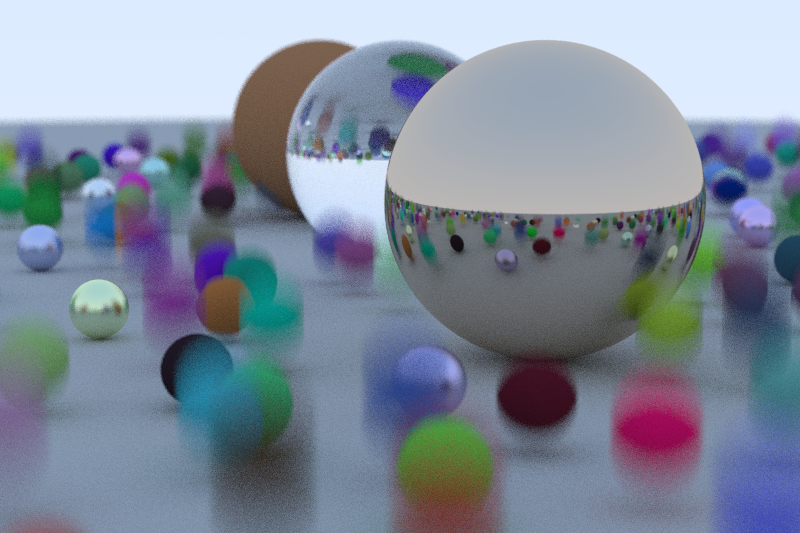
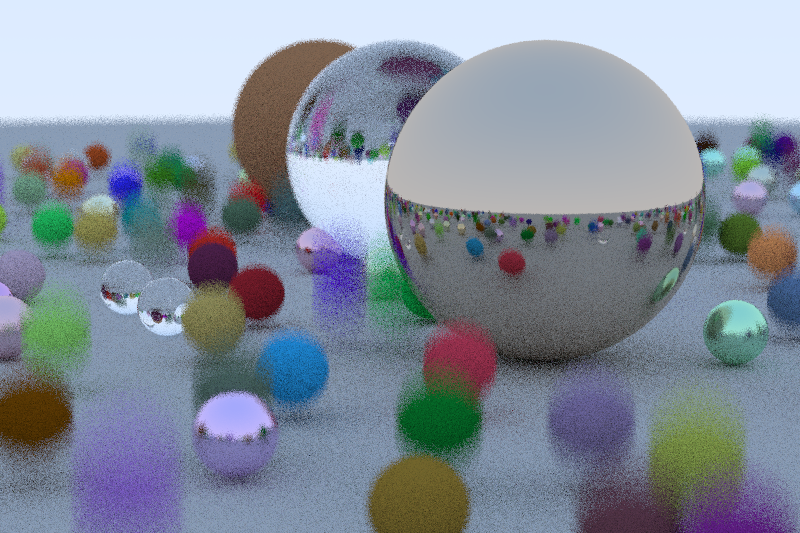
intersect interface + initial qbvh sketch

diff --git a/src/main.rs b/src/main.rs
@@ -253,7 +253,7 @@ fn hit(world: &World, start: usize, len: usize, ray: Ray, t_min: f32, t_max: f32
 }    
 
 trait Hitable {
-    fn hit(&self, ray: Ray, t_min: f32, t_max: f32, out_hit: &mut HitRecord) -> bool;
+    fn hit(&self, ray: Ray, t_min: f32, t_max: f32, world: &World, out_hit: &mut HitRecord) -> bool;
 }
 
 fn hit_spheres(world: &World, start: usize, len: usize, ray: Ray, t_min: f32, t_max: f32, out_hit: &mut HitRecord) -> bool {
@@ -276,36 +276,37 @@ fn hit_spheres(world: &World, start: usize, len: usize, ray: Ray, t_min: f32, t_
     found_hit
 }
 
-fn hit_world(r: Ray, t_min: f32, t_max: f32, current_node: &BVHNode, bvh: &BVH, world: &World, out_hit: &mut HitRecord) -> bool {        
-    if !current_node.bounds.hit(r, t_min, t_max) {
-        return false;
-    }
+// fn hit_world(r: Ray, t_min: f32, t_max: f32, current_node: &BVHNode, bvh: &BVH, world: &World, out_hit: &mut HitRecord) -> bool {        
+//     if !current_node.bounds.hit(r, t_min, t_max) {
+//         return false;
+//     }
 
-    if current_node.geometry_idx != INVALID_GEO_IDX {
-        let start = current_node.geometry_idx as usize;
-        let len = current_node.geometry_len as usize;
-        return hit_spheres(world, start, len, r, t_min, t_max, out_hit);
-    }
+//     if current_node.geometry_idx != INVALID_GEO_IDX {
+//         let start = current_node.geometry_idx as usize;
+//         let len = current_node.geometry_len as usize;
+//         return hit_spheres(world, start, len, r, t_min, t_max, out_hit);
+//     }
 
-    let l_node = &bvh.tree[current_node.left_child as usize];
-    let r_node = &bvh.tree[current_node.right_child as usize];
+//     let l_node = &bvh.tree[current_node.left_child as usize];
+//     let r_node = &bvh.tree[current_node.right_child as usize];
 
-    let l_hit = hit_world(r, t_min, t_max, l_node, bvh, world, out_hit);
-    let closest_t = if l_hit { out_hit.t } else { t_max }; 
-    let r_hit = hit_world(r, t_min, closest_t, r_node, bvh, world, out_hit);
+//     let l_hit = hit_world(r, t_min, t_max, l_node, bvh, world, out_hit);
+//     let closest_t = if l_hit { out_hit.t } else { t_max }; 
+//     let r_hit = hit_world(r, t_min, closest_t, r_node, bvh, world, out_hit);
 
-    l_hit || r_hit
-}
+//     l_hit || r_hit
+// }
 
-fn sample_color(r: Ray, bvh: &BVH, world: &World, materials: &[Material], bounces: i32) -> Vec3 {
+fn sample_color(r: Ray, hit_tree: & dyn Hitable, world: &World, materials: &[Material], bounces: i32) -> Vec3 {
     let mut hit = HitRecord::new();
 
     let mut color = vec3![1.0, 1.0, 1.0];
     let mut current_ray = r;
 
     for _bounce in 0..bounces {
-        if hit_world(current_ray, 0.001, f32::MAX, &bvh.root, bvh, &world, &mut hit) {
+        // if hit_world(current_ray, 0.001, f32::MAX, &bvh.root, bvh, &world, &mut hit) {
         // if hit_spheres(world, 0, world.sphere_x.len(), current_ray, 0.001, f32::MAX, &mut hit) {
+        if hit_tree.hit(current_ray, 0.001, f32::MAX, world, &mut hit) {
             hit.normal = normalized(hit.normal); // The book makes a point about unit length normals but then doesnt enforce it.
             let mat_id = world.material_ids[hit.obj_id] as usize;
             let (did_bounce, attenuation, scattered) = materials[mat_id].scatter(&current_ray, &hit);
@@ -634,6 +635,48 @@ impl AABB {
         t_max > t_min
     }
 
+    // unsafe fn hit_wide(r: Ray, t_min: f32, t_max: f32) -> bool {
+    //     let min_x = _mm_set_ps1(0.0);
+    //     let min_y = _mm_set_ps1(0.0);
+    //     let min_z = _mm_set_ps1(0.0);
+        
+    //     let max_x = _mm_set_ps1(0.0);
+    //     let max_y = _mm_set_ps1(0.0);
+    //     let max_z = _mm_set_ps1(0.0);
+    
+    //     let ro_x = _mm_set_ps1(r.origin.x);
+    //     let ro_y = _mm_set_ps1(r.origin.y);
+    //     let ro_z = _mm_set_ps1(r.origin.z);
+    
+    //     let inv_rd_x = _mm_set_ps1(1.0 / r.direction.x);
+    //     let inv_rd_y = _mm_set_ps1(1.0 / r.direction.y);
+    //     let inv_rd_z = _mm_set_ps1(1.0 / r.direction.z);
+    
+    //     let zero_4 = _mm_set_ps1(0.0);
+    //     let t_min_4 = _mm_set_ps1(t_min);
+    //     let t_max_4 = _mm_set_ps1(t_max);
+        
+    //     let mut t0_x = _mm_mul_ps(_mm_sub_ps(min_x, ro_x), inv_rd_x);
+    //     let mut t1_x = _mm_mul_ps(_mm_sub_ps(max_x, ro_x), inv_rd_x);
+    
+    //     let inv_rd_x_lt0 = _mm_cmplt_ps(inv_rd_x, zero_4);
+    //     t0_x = _mm_blendv_ps(t0_x, t1_x, inv_rd_x_lt0);
+    //     t1_x = _mm_blendv_ps(t1_x, t0_x, inv_rd_x_lt0);
+    
+    //     t0_x = _mm_max_ps(t_min_4, t0_x);
+    //     t1_x = _mm_min_ps(t_max_4, t1_x);
+    
+    //     let any_x_hit = _mm_cmple_ps(t1_x, t0_x);
+    //     if _mm_movemask_ps(any_x_hit) != 0 {
+    //         // TODO(): lane select
+    //         return true;
+    //     }
+    
+    //     // TODO(): repeat for y and z
+    
+    //     return false;
+    // }
+
     // fn _hit_simd(&self, r: Ray, t_min: f32, t_max: f32) -> bool {
     // unsafe {
     //         let inv_rd = _mm_div_ps(_mm_set_ps1(1.0), _mm_set_ps(r.direction.x, r.direction.y, r.direction.z, 1.0));
@@ -680,6 +723,35 @@ impl BVHNode {
 struct BVH {
     root: BVHNode,
     tree: Vec<BVHNode>
+}
+
+impl BVH {
+    fn hit_world(r: Ray, t_min: f32, t_max: f32, current_node: &BVHNode, bvh: &BVH, world: &World, out_hit: &mut HitRecord) -> bool {        
+        if !current_node.bounds.hit(r, t_min, t_max) {
+            return false;
+        }
+
+        if current_node.geometry_idx != INVALID_GEO_IDX {
+            let start = current_node.geometry_idx as usize;
+            let len = current_node.geometry_len as usize;
+            return hit_spheres(world, start, len, r, t_min, t_max, out_hit);
+        }
+
+        let l_node = &bvh.tree[current_node.left_child as usize];
+        let r_node = &bvh.tree[current_node.right_child as usize];
+
+        let l_hit = BVH::hit_world(r, t_min, t_max, l_node, bvh, world, out_hit);
+        let closest_t = if l_hit { out_hit.t } else { t_max }; 
+        let r_hit = BVH::hit_world(r, t_min, closest_t, r_node, bvh, world, out_hit);
+
+        l_hit || r_hit
+    }
+}
+
+impl Hitable for BVH {
+    fn hit(&self, ray: Ray, t_min: f32, t_max: f32, world: &World, out_hit: &mut HitRecord) -> bool {
+        return BVH::hit_world(ray, t_min, t_max, &self.root, &self, world, out_hit);
+    }
 }
 
 #[derive(Copy,Clone)]
@@ -767,6 +839,187 @@ fn construct_bvh(objects: &mut[Sphere], time0: f32, time1: f32, bvh: &mut Vec<BV
     cur_node.bounds = AABB::merge(&left_bb, &right_bb);
 }
 
+enum BVHNodeType {
+    Joint, /// This node's children are BVHNodes.
+    Leaf,  /// This node's children are intersectibles.
+    EnumCount
+}
+
+/// A QBVHNode has up to four children that it stores the bounds of.
+/// This allows fast intersection testing by testing all 4 at once through SIMD.
+struct QBVHNode {
+    bb_min_x: [f32; 4],
+    bb_min_y: [f32; 4],
+    bb_min_z: [f32; 4],
+    bb_max_x: [f32; 4],
+    bb_max_y: [f32; 4],
+    bb_max_z: [f32; 4],
+    children: [i32; 4],
+    child_type: [BVHNodeType; 4],
+    num_children: u8
+}
+
+impl QBVHNode {
+    fn new() -> QBVHNode {
+        QBVHNode {
+            bb_min_x: [0.0, 0.0, 0.0, 0.0],
+            bb_min_y: [0.0, 0.0, 0.0, 0.0],
+            bb_min_z: [0.0, 0.0, 0.0, 0.0],
+            bb_max_x: [0.0, 0.0, 0.0, 0.0],
+            bb_max_y: [0.0, 0.0, 0.0, 0.0],
+            bb_max_z: [0.0, 0.0, 0.0, 0.0],
+            children: [-1, -1, -1, -1],
+            child_type: [BVHNodeType:: Joint, BVHNodeType:: Joint, BVHNodeType:: Joint, BVHNodeType:: Joint],
+            num_children: 0
+            // ^ We want to indicate what the children are, so we can avoid inserting
+            // BVHNodes for single object children since that just wastes space.
+        }
+    }
+}
+
+struct QBVH {
+    root: QBVHNode,
+    tree: Vec<QBVHNode>
+}
+
+/// Retrieves the bounds for the child of node at child_idx.
+fn get_qbvh_aabb(node: &QBVHNode, child_idx: u8) -> AABB {
+    let i = child_idx as usize;
+    AABB {
+        min: vec3![node.bb_min_x[i], node.bb_min_y[i], node.bb_min_z[i]],
+        max: vec3![node.bb_max_x[i], node.bb_max_y[i], node.bb_max_z[i]],
+    }
+}
+
+/// Sets the merged bounds on the node for its child at child_idx.
+fn set_qbvh_aabb(node: &mut QBVHNode, child_idx: u8, bb: &AABB) {
+    node.bb_min_x[child_idx as usize] = bb.min.x;
+    node.bb_min_y[child_idx as usize] = bb.min.y;
+    node.bb_min_z[child_idx as usize] = bb.min.z;
+    node.bb_max_x[child_idx as usize] = bb.max.x;
+    node.bb_max_y[child_idx as usize] = bb.max.y;
+    node.bb_max_z[child_idx as usize] = bb.max.z;   
+}
+
+/// Calculates the merged bounds of child of this node and assigns it 
+/// to the appropriate slot in this node.
+fn merge_bounds_from_children(node: &mut QBVHNode, qbvh: &Vec<QBVHNode>) {
+    for child_i in 0..node.num_children {
+
+        let child_node = &qbvh[child_i as usize];
+        assert_ne!(child_node.num_children, 0);
+
+        let mut bounds = get_qbvh_aabb(&child_node, 0);
+        for node_i in 1..child_node.num_children {
+            bounds = AABB::merge(&bounds, &get_qbvh_aabb(&child_node, node_i));
+        }
+
+        set_qbvh_aabb(node, child_i, &bounds);
+    }
+}
+
+
+fn construct_qbvh(objects: &mut[Sphere], t0: f32, t1: f32, bvh: &mut Vec<QBVHNode>, cur_node: &mut QBVHNode, start: usize, end: usize) {
+
+    let split_axis = random_axis();
+    let range = end - start;
+
+    let sub_objects = &mut objects[start..end];
+
+    if range <= 4 {
+
+        for i in 0..range {          
+            let aabb = objects[i].calc_aabb(t0, t1);
+            cur_node.bb_min_x[i] = aabb.min.x;
+            cur_node.bb_min_y[i] = aabb.min.y;
+            cur_node.bb_min_z[i] = aabb.min.z;
+            cur_node.bb_max_x[i] = aabb.max.x;
+            cur_node.bb_max_y[i] = aabb.max.y;
+            cur_node.bb_max_z[i] = aabb.max.z;
+            cur_node.child_type[i] = BVHNodeType::Leaf;
+            cur_node.children[i] = (start + i) as i32;
+            cur_node.num_children += 1;
+        }
+
+        // pad if we dont have 4 nodes to fill with
+        // TODO(): we should probably assert on this in the hit logic. The bvh
+        // for this child will be all 0, so we should never hit it and get an idx of -1.
+        for i in range..4 {
+            cur_node.children[i] = -1;
+            cur_node.child_type[i] = BVHNodeType::Leaf;
+        }
+    }
+    // TODO(): Do we insert a case here we handle setting up leaf nodes?
+    // Or we could replace the above case with one that checks the next divide.
+    else if range < 16 {
+        // next nodes will end up being leaves, should pad to four
+        // or should we? is full 4 prefereable? Probably, better simd occupancy
+
+        let mut start_idx = start as i32;
+        let mut nodes_to_insert = range as i32;
+        while nodes_to_insert > 0 {
+            let num_children = if nodes_to_insert >= 4 { 4 } else { nodes_to_insert };
+            let mut node = QBVHNode::new();
+            construct_qbvh(objects, t0, t1, bvh, &mut node, start_idx as usize, (start_idx + num_children) as usize);
+
+            cur_node.num_children += 1;
+
+            start_idx += num_children;
+            nodes_to_insert -= num_children;
+        }
+
+        merge_bounds_from_children(cur_node, bvh);
+
+        // what we really want to do is divide far enough down that we hit an invividual sphere level.
+        // if we're <= 4 we distribute individual sphere as children
+        // if we're < 16 we divide up into pad four blocks.
+        // if we're >= 16 we run the normal split below
+    }
+    else 
+    {
+        sort(sub_objects, split_axis, t0, t1);
+
+        let split_step = range / 4;
+
+        let next_node_idx = bvh.len() as i32;
+        cur_node.children[0] = next_node_idx;
+        cur_node.children[1] = next_node_idx + 1;
+        cur_node.children[2] = next_node_idx + 2;
+        cur_node.children[3] = next_node_idx + 3;
+
+        bvh.push(QBVHNode::new());
+        bvh.push(QBVHNode::new());
+        bvh.push(QBVHNode::new());
+        bvh.push(QBVHNode::new());
+
+        // TODO(); Should we try to fill up as many with new nodes with 4 children and discard the rest? 
+
+        let mut node_0 = QBVHNode::new();
+        construct_qbvh(objects, t0, t1, bvh, &mut node_0, start, start + split_step);
+        bvh[cur_node.children[0] as usize] = node_0;
+
+        let mut node_1 = QBVHNode::new();
+        construct_qbvh(objects, t0, t1, bvh, &mut node_1, start + split_step, start + split_step * 2);
+        bvh[cur_node.children[1] as usize] = node_1;
+
+        let mut node_2 = QBVHNode::new();
+        construct_qbvh(objects, t0, t1, bvh, &mut node_2, start + split_step * 2, start + split_step * 3);
+        bvh[cur_node.children[2] as usize] = node_2;
+    
+        // If the range doesnt divide by 4 evenly, will pad the rest on the end. It could be better to
+        // balance the slack across the first three ranges.
+        let range_slack = range - ((range / 4) * 4);
+
+        let mut node_3 = QBVHNode::new();
+        construct_qbvh(objects, t0, t1, bvh, &mut node_3, start + split_step * 3, start + split_step + range_slack * 4);
+        bvh[cur_node.children[2] as usize] = node_3;
+
+        cur_node.num_children = 4;
+        merge_bounds_from_children(cur_node, bvh);
+    }
+
+}
+
 struct RGBImage {
     width: usize,
     height: usize,
@@ -809,18 +1062,24 @@ fn main() {
     let start_t = 0.0;
     let end_t = 1.0;
 
+    let obj_count = objects.len();
+
     let mut bvh_tree : Vec<BVHNode> = Vec::new();
     let mut bvh_root = BVHNode::new();
-    let obj_count = objects.len();
     construct_bvh(&mut objects, start_t, end_t, &mut bvh_tree, &mut bvh_root, 0, obj_count);
-
     let bvh = BVH { root: bvh_root, tree: bvh_tree };
+
+    // let mut qbvh_tree : Vec<QBVHNode> = Vec::new();
+    // let mut qbvh_root = QBVHNode::new();
+    // construct_qbvh(&mut objects, start_t, end_t, &mut qbvh_tree, &mut qbvh_root, 0, obj_count);
+    // let qbvh = QBVH { root: qbvh_root, tree: qbvh_tree };
+
     let world = World::construct(&objects);
 
     println!("Finished setup. Begin rendering...");
     let measure_start = Instant::now();
 
-    let sample_count = 64;
+    let sample_count = 8;
 
     for row in 0..image.height {
         for col in 0..image.width {
